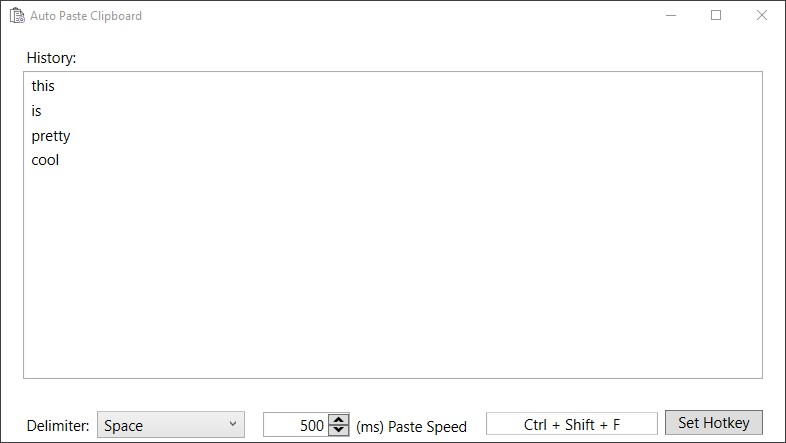
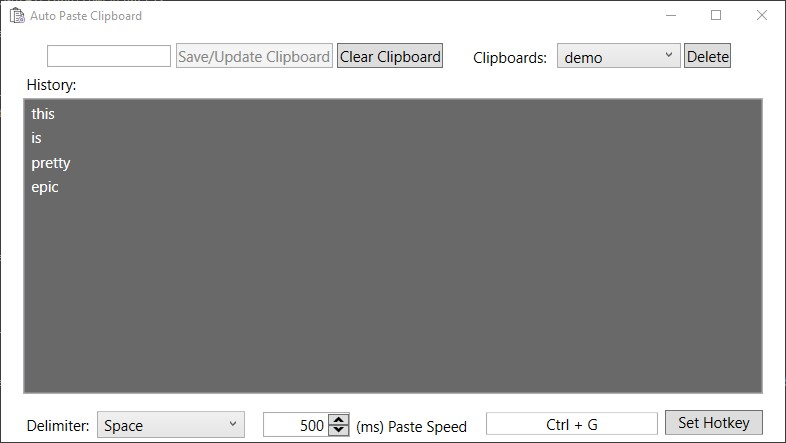
Added ability to add, clear, update, and clear clipboard with data persistence.

diff --git a/AutoPasteClipboard/App.xaml b/AutoPasteClipboard/App.xaml
@@ -5,5 +5,67 @@
              StartupUri="MainWindow.xaml">
     <Application.Resources>
          
+        <Style x:Key="FocusVisual">
+            <Setter Property="Control.Template">
+                <Setter.Value>
+                    <ControlTemplate>
+                        <Rectangle Margin="2" StrokeDashArray="1 2" SnapsToDevicePixels="true" StrokeThickness="1" Stroke="{DynamicResource {x:Static SystemColors.ControlTextBrushKey}}"/>
+                    </ControlTemplate>
+                </Setter.Value>
+            </Setter>
+        </Style>
+        <SolidColorBrush x:Key="Item.MouseOver.Background" Color="Transparent"/>
+        <SolidColorBrush x:Key="Item.MouseOver.Border" Color="Transparent"/>
+        <SolidColorBrush x:Key="Item.SelectedActive.Background" Color="Transparent"/>
+        <SolidColorBrush x:Key="Item.SelectedActive.Border" Color="Transparent"/>
+        <SolidColorBrush x:Key="Item.SelectedInactive.Background" Color="Transparent"/>
+        <SolidColorBrush x:Key="Item.SelectedInactive.Border" Color="Transparent"/>
+        <Style x:Key="ListViewItemStyle" TargetType="{x:Type ListViewItem}">
+            <Setter Property="SnapsToDevicePixels" Value="True"/>
+            <Setter Property="Padding" Value="4,1"/>
+            <Setter Property="HorizontalContentAlignment" Value="{Binding HorizontalContentAlignment, RelativeSource={RelativeSource AncestorType={x:Type ItemsControl}}}"/>
+            <Setter Property="VerticalContentAlignment" Value="{Binding VerticalContentAlignment, RelativeSource={RelativeSource AncestorType={x:Type ItemsControl}}}"/>
+            <Setter Property="Background" Value="Transparent"/>
+            <Setter Property="BorderBrush" Value="Transparent"/>
+            <Setter Property="BorderThickness" Value="1"/>
+            <Setter Property="FocusVisualStyle" Value="{StaticResource FocusVisual}"/>
+            <Setter Property="Template">
+                <Setter.Value>
+                    <ControlTemplate TargetType="{x:Type ListViewItem}">
+                        <Border x:Name="Bd" Background="{TemplateBinding Background}" BorderThickness="{TemplateBinding BorderThickness}" BorderBrush="{TemplateBinding BorderBrush}" Padding="{TemplateBinding Padding}" SnapsToDevicePixels="true">
+                            <ContentPresenter HorizontalAlignment="{TemplateBinding HorizontalContentAlignment}" SnapsToDevicePixels="{TemplateBinding SnapsToDevicePixels}" VerticalAlignment="{TemplateBinding VerticalContentAlignment}"/>
+                        </Border>
+                        <ControlTemplate.Triggers>
+                            <MultiTrigger>
+                                <MultiTrigger.Conditions>
+                                    <Condition Property="IsMouseOver" Value="True"/>
+                                </MultiTrigger.Conditions>
+                                <Setter Property="Background" TargetName="Bd" Value="{StaticResource Item.MouseOver.Background}"/>
+                                <Setter Property="BorderBrush" TargetName="Bd" Value="{StaticResource Item.MouseOver.Border}"/>
+                            </MultiTrigger>
+                            <MultiTrigger>
+                                <MultiTrigger.Conditions>
+                                    <Condition Property="Selector.IsSelectionActive" Value="False"/>
+                                    <Condition Property="IsSelected" Value="True"/>
+                                </MultiTrigger.Conditions>
+                                <Setter Property="Background" TargetName="Bd" Value="{StaticResource Item.SelectedInactive.Background}"/>
+                                <Setter Property="BorderBrush" TargetName="Bd" Value="{StaticResource Item.SelectedInactive.Border}"/>
+                            </MultiTrigger>
+                            <MultiTrigger>
+                                <MultiTrigger.Conditions>
+                                    <Condition Property="Selector.IsSelectionActive" Value="True"/>
+                                    <Condition Property="IsSelected" Value="True"/>
+                                </MultiTrigger.Conditions>
+                                <Setter Property="Background" TargetName="Bd" Value="{StaticResource Item.SelectedActive.Background}"/>
+                                <Setter Property="BorderBrush" TargetName="Bd" Value="{StaticResource Item.SelectedActive.Border}"/>
+                            </MultiTrigger>
+                            <Trigger Property="IsEnabled" Value="False">
+                                <Setter Property="TextElement.Foreground" TargetName="Bd" Value="{DynamicResource {x:Static SystemColors.GrayTextBrushKey}}"/>
+                            </Trigger>
+                        </ControlTemplate.Triggers>
+                    </ControlTemplate>
+                </Setter.Value>
+            </Setter>
+        </Style>
     </Application.Resources>
 </Application>

diff --git a/AutoPasteClipboard/MainWindow.xaml b/AutoPasteClipboard/MainWindow.xaml
@@ -8,10 +8,18 @@
         Title="Auto Paste Clipboard" Height="450" Width="800" WindowStartupLocation="CenterScreen">
     <Viewbox StretchDirection="Both" Stretch="Uniform">
         <Grid>
-            <Label Content="History:" HorizontalAlignment="Left" Margin="-2,8,0,0" VerticalAlignment="Top"/>
-            <ListView x:Name="ClipboardListView" HorizontalAlignment="Center" VerticalAlignment="Top" Width="600" Height="250" Margin="0,32,0,0" />
+            <Label Content="History:" HorizontalAlignment="Left" Margin="-2,30,0,0" VerticalAlignment="Top"/>
+            <TextBox x:Name="ProfileNameTextBox" HorizontalAlignment="Left" Margin="20,11.5,0,0" VerticalAlignment="Top" Width="100"/>
+            <Button Content="Save/Update Clipboard" HorizontalAlignment="Left" Margin="124,10,0,0" VerticalAlignment="Top" Click="SaveClipboard" IsEnabled="{Binding ElementName=ProfileNameTextBox, Path=Text.Length, Mode=OneWay}"/>
+            <Button Content="Clear Clipboard" HorizontalAlignment="Left" Margin="255,10,0,0" VerticalAlignment="Top" Click="ClearClipboard"/>
+            <Label Content="Clipboards:" HorizontalAlignment="Left" Margin="360,8,0,0" VerticalAlignment="Top"/>
+            <ComboBox x:Name="ProfileComboBox" HorizontalAlignment="Left" Margin="433,10,0,0" VerticalAlignment="Top" Width="100" Height="20" SelectionChanged="UpdateClipboardOnProfileSelectionChanged"/>
+            <Button Content="Delete" HorizontalAlignment="Left" Margin="536,10,0,0" VerticalAlignment="Top" Click="DeleteProfile"/>
+            <xctk:BusyIndicator x:Name="Indicator">
+                <ListView x:Name="ClipboardListView" HorizontalAlignment="Center" VerticalAlignment="Top" Width="600" Height="240" Margin="0,54,0,0" Background="DimGray" Foreground="White" />
+            </xctk:BusyIndicator>
             <Label Content="Delimiter:" HorizontalAlignment="Left" Margin="-2,306,0,0" VerticalAlignment="Top"/>
-            <ComboBox x:Name="Delimiter" HorizontalAlignment="Left" Margin="60,308,0,0" VerticalAlignment="Top" Width="120">
+            <ComboBox x:Name="DelimiterComboBox" HorizontalAlignment="Left" Margin="60,308,0,0" VerticalAlignment="Top" Width="120">
                 <ComboBoxItem IsSelected="True">None</ComboBoxItem>
                 <ComboBoxItem>Tab</ComboBoxItem>
                 <ComboBoxItem>Enter</ComboBoxItem>
@@ -21,9 +29,9 @@
                 <ComboBoxItem>Comma &amp; Space</ComboBoxItem>
                 <ComboBoxItem>Period &amp; Space</ComboBoxItem>
             </ComboBox>
+            <local1:HotkeyEditorControl x:Name="HkTextBox"/>
             <xctk:SingleUpDown x:Name="Delay" HorizontalAlignment="Left" Margin="195,309,0,0" VerticalAlignment="Top" Width="70" Minimum="50" Value="500" DefaultValue="500"/>
             <Label Content="(ms) Paste Speed" HorizontalAlignment="Left" Margin="265,307,0,0" VerticalAlignment="Top"/>
-            <local1:HotkeyEditorControl x:Name="HkTextBox"/>
             <Button Content="Set Hotkey" HorizontalAlignment="Left" VerticalAlignment="Top" Margin="520,307,0,0" Width="80" Click="SetHotkey"/>
         </Grid>
     </Viewbox>

diff --git a/AutoPasteClipboard/MainWindow.xaml.cs b/AutoPasteClipboard/MainWindow.xaml.cs
@@ -1,63 +1,192 @@
-using NHotkey;
+using AutoPasteClipboard.Models;
+using LiteDB;
+using NHotkey;
 using NHotkey.Wpf;
 using System;
 using System.Collections.Generic;
+using System.IO;
 using System.Linq;
 using System.Threading;
+using System.Threading.Tasks;
 using System.Windows;
+using System.Windows.Controls;
 using Windows.ApplicationModel.DataTransfer;
 using WindowsInput;
 using WindowsInput.Native;
-using Clipboard = Windows.ApplicationModel.DataTransfer.Clipboard;
+using Clipboard = Windows.ApplicationModel.DataTransfer.Clipboard; //prevents ambiguity
 
 namespace AutoPasteClipboard
 {
     public partial class MainWindow : Window
     {
         readonly List<ClipboardHistoryItem> clipboardHistoryItems = new List<ClipboardHistoryItem>();
+        readonly string documents = Environment.GetFolderPath(Environment.SpecialFolder.MyDocuments);
         public MainWindow()
         {
-            Clipboard.HistoryChanged += Clipboard_HistoryChanged;
+            Clipboard.HistoryChanged += (object sender, ClipboardHistoryChangedEventArgs e) => { UpdateClipboardListView(); };
+            Directory.CreateDirectory(Path.Combine(documents, "Auto Paste Clipboard"));
             InitializeComponent();
             UpdateClipboardListView();
-        }
-
-
-        private void Clipboard_HistoryChanged(object sender, ClipboardHistoryChangedEventArgs e)
-        {
-            UpdateClipboardListView();
+            UpdateProfileComboBox(true);
+            LoadHotkey();
         }
 
         private async void UpdateClipboardListView()
         {
-            List<string> clipboardTexts = new List<string>();
             clipboardHistoryItems.Clear();
-
+            List<ListViewItem> clipboardTexts = new List<ListViewItem>();
             ClipboardHistoryItemsResult items = await Clipboard.GetHistoryItemsAsync();
-            foreach (ClipboardHistoryItem item in items.Items)
+
+            foreach (ClipboardHistoryItem item in items.Items.Reverse())
             {
                 if (item.Content.Contains(DataFormats.Text))
                 {
                     string data = await item.Content.GetTextAsync();
-                    clipboardTexts.Add(data);
+                    clipboardTexts.Add(new ListViewItem() { Content = data });
                     clipboardHistoryItems.Add(item);
                 }
             }
 
-            clipboardTexts.Reverse();
-            clipboardHistoryItems.Reverse();
-
             ClipboardListView.ItemsSource = clipboardTexts;
+
+            foreach (var item in ClipboardListView.Items)
+            {
+                ((ListViewItem)item).Style = (Style)FindResource(resourceKey: "ListViewItemStyle");
+            }
+        }
+
+        private async void UpdateClipboardOnProfileSelectionChanged(object sender, EventArgs e)
+        {
+            Indicator.IsBusy = true;
+            if (ProfileComboBox.IsLoaded && ProfileComboBox.SelectedValue != null && ProfileComboBox.Text != ProfileComboBox.SelectedValue as string && ProfileComboBox.SelectedValue as string != "Default")
+            {
+                if (ProfileComboBox.Items.Contains("Default"))
+                {
+                    UpdateProfileComboBox(false);
+                }
+
+                Clipboard.ClearHistory();
+
+                using (LiteDatabase db = new LiteDatabase($"Filename={Path.Combine(documents, "Auto Paste Clipboard", "data.db")}; Connection=shared"))
+                {
+                    ILiteCollection<ClipboardProfile> collection = db.GetCollection<ClipboardProfile>("clipboard");
+
+                    ClipboardProfile clipboardProfile = collection.FindOne(x => x.Profile == ProfileComboBox.SelectedValue as string);
+
+                    foreach (string item in clipboardProfile.Clipboard)
+                    {
+                        DataPackage data = new DataPackage();
+                        data.SetText(item);
+                        Clipboard.SetContent(data);
+                        await Task.Delay(450);
+                    }
+                }
+            }
+            Indicator.IsBusy = false;
+        }
+
+        private void UpdateProfileComboBox(bool addDefaultProfile, string currentDropDownProfile = null)
+        {
+            using (LiteDatabase db = new LiteDatabase($"Filename={Path.Combine(documents, "Auto Paste Clipboard", "data.db")}; Connection=shared"))
+            {
+                ILiteCollection<ClipboardProfile> collection = db.GetCollection<ClipboardProfile>("clipboard");
+                IEnumerable<string> profiles = collection.FindAll().Select(x => x.Profile);
+                IEnumerable<string> totalProfiles = addDefaultProfile ? profiles.Prepend("Default") : profiles;
+                ProfileComboBox.ItemsSource = totalProfiles;
+
+                if (currentDropDownProfile != null)
+                {
+                    int index = ProfileComboBox.Items.IndexOf(currentDropDownProfile);
+                    ProfileComboBox.SelectedIndex = index;
+                }
+                else
+                {
+                    ProfileComboBox.SelectedIndex = 0;
+                }
+            }
+        }
+
+        private void DeleteProfile(object sender, RoutedEventArgs e)
+        {
+            if (ProfileComboBox.Text != "Default")
+            {
+                using (LiteDatabase db = new LiteDatabase(Path.Combine(documents, "Auto Paste Clipboard", "data.db")))
+                {
+                    ILiteCollection<ClipboardProfile> collection = db.GetCollection<ClipboardProfile>("clipboard");
+                    ClipboardProfile clipboardProfile = collection.FindOne(x => x.Profile == ProfileComboBox.Text);
+                    collection.Delete(clipboardProfile.Profile);
+                }
+
+                if (ProfileComboBox.Items.Count == 1)
+                {
+                    UpdateProfileComboBox(true);
+                }
+                else
+                {
+                    UpdateProfileComboBox(false);
+                }
+            }
+        }
+
+        private void SaveClipboard(object sender, RoutedEventArgs e)
+        {
+            if (ClipboardListView.Items.Count != 0)
+            {
+                ClipboardProfile clipboard = new ClipboardProfile
+                {
+                    Profile = ProfileNameTextBox.Text,
+                    Clipboard = (List<string>)ClipboardListView.ItemsSource
+                };
+
+                using (LiteDatabase db = new LiteDatabase(Path.Combine(documents, "Auto Paste Clipboard", "data.db")))
+                {
+                    ILiteCollection<ClipboardProfile> collection = db.GetCollection<ClipboardProfile>("clipboard");
+
+                    collection.Upsert(clipboard); //update or insert
+                }
+
+                UpdateProfileComboBox(false, clipboard.Profile);
+            }
+        }
+
+        private void ClearClipboard(object sender, RoutedEventArgs e) { Clipboard.ClearHistory(); }
+
+        private void LoadHotkey()
+        {
+            using (LiteDatabase db = new LiteDatabase(Path.Combine(documents, "Auto Paste Clipboard", "data.db")))
+            {
+                ILiteCollection<Hotkey> collection = db.GetCollection<Hotkey>("hotkey");
+
+                if (collection.Count() > 0)
+                {
+                    Hotkey hotkey = collection.FindById(collection.Min());
+                    HkTextBox.Hotkey = hotkey;
+                    HotkeyManager.Current.AddOrReplace("Paste", HkTextBox.Hotkey.Key, HkTextBox.Hotkey.Modifiers, AutoPaste);
+                }
+            }
         }
 
         private void SetHotkey(object sender, RoutedEventArgs e)
         {
-            if (Clipboard.IsHistoryEnabled())
+            if (Clipboard.IsHistoryEnabled() && HkTextBox.Hotkey != null)
             {
                 string[] modifiers = HkTextBox.Hotkey.Modifiers.ToString().Split(',').OrderByDescending(d => d == "Control").ThenBy(a => a).ToArray(); //Following Ctrl + Shift + Alt Ordering Convention
                 string hotkey = $"{ (modifiers[0] == "None" ? "" : string.Join(" + ", modifiers) + " + ") } {HkTextBox.Hotkey.Key}";
+
                 try
                 {
+                    using (LiteDatabase db = new LiteDatabase(Path.Combine(documents, "Auto Paste Clipboard", "data.db")))
+                    {
+                        ILiteCollection<Hotkey> collection = db.GetCollection<Hotkey>("hotkey");
+
+                        if (collection.Count() > 0)
+                        {
+                            collection.DeleteAll();
+                        }
+
+                        collection.Insert(HkTextBox.Hotkey);
+                    }
+
                     HotkeyManager.Current.AddOrReplace("Paste", HkTextBox.Hotkey.Key, HkTextBox.Hotkey.Modifiers, AutoPaste);
                     MessageBox.Show($"{hotkey} has been successfully set as the hotkey.");
                     WindowState = WindowState.Minimized;
@@ -69,9 +198,8 @@ namespace AutoPasteClipboard
             }
             else
             {
-                MessageBox.Show("You must enable clipboard history on windows settings.", "Alert", MessageBoxButton.OK, MessageBoxImage.Exclamation);
+                MessageBox.Show("You must enable clipboard history on windows settings and set a hotkey.", "Alert", MessageBoxButton.OK, MessageBoxImage.Exclamation);
             }
-
         }
 
         private void AutoPaste(object sender, HotkeyEventArgs e)
@@ -81,7 +209,6 @@ namespace AutoPasteClipboard
                 WindowState = WindowState.Minimized;
                 Thread.Sleep(TimeSpan.FromSeconds(1));
             }
-
             InputSimulator input = new InputSimulator();
 
             for (int i = 0; i < clipboardHistoryItems.Count; i++)
@@ -89,7 +216,7 @@ namespace AutoPasteClipboard
                 Clipboard.SetHistoryItemAsContent(clipboardHistoryItems[i]);
                 input.Keyboard.Sleep((int)Delay.Value).ModifiedKeyStroke(VirtualKeyCode.CONTROL, VirtualKeyCode.VK_V);
 
-                switch (Delimiter.SelectedIndex)
+                switch (DelimiterComboBox.SelectedIndex)
                 {
                     case 1:
                         input.Keyboard.Sleep((int)Delay.Value).KeyPress(VirtualKeyCode.TAB);

diff --git a/AutoPasteClipboard/Models/Hotkey.cs b/AutoPasteClipboard/Models/Hotkey.cs
@@ -5,16 +5,12 @@ namespace AutoPasteClipboard
 {
     public class Hotkey
     {
-        public Key Key { get; }
+        public string Id { get; set; }
+        public Key Key { get; set; }
 
-        public ModifierKeys Modifiers { get; }
+        public ModifierKeys Modifiers { get; set; }
 
-        public Hotkey(Key key, ModifierKeys modifiers = ModifierKeys.None)
-        {
-            Key = key;
-            Modifiers = modifiers;
-        }
-
+        public Hotkey() { }
         public override string ToString()
         {
             if (Key == Key.None && Modifiers == ModifierKeys.None)
@@ -80,6 +76,8 @@ namespace AutoPasteClipboard
                     buffer.Append(Key);
                     break;
             }
+
+            Id = buffer.ToString();
 
             return buffer.ToString();
         }

diff --git a/AutoPasteClipboard/Models/ClipboardProfile.cs b/AutoPasteClipboard/Models/ClipboardProfile.cs
@@ -1,0 +1,14 @@
+using LiteDB;
+using System.Collections.Generic;
+
+namespace AutoPasteClipboard.Models
+{
+    public class ClipboardProfile
+    {
+        [BsonId]
+        public string Profile { get; set; }
+        public List<string> Clipboard { get; set; }
+
+        public ClipboardProfile() { }
+    }
+}

diff --git a/AutoPasteClipboard/UserControls/HotkeyEditorControl.xaml.cs b/AutoPasteClipboard/UserControls/HotkeyEditorControl.xaml.cs
@@ -79,7 +79,7 @@ namespace AutoPasteClipboard.Controls
             }
 
             // Set value
-            Hotkey = new Hotkey(key, modifiers);
+            Hotkey = new Hotkey() { Key = key, Modifiers = modifiers};
         }
     }
 }
